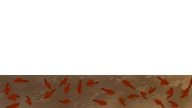
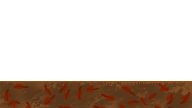
balance changes

Changed region(s): [[0.0, 0.6944, 1.0, 1.0]]

diff --git a/Assets/Scripts/playerController.cs b/Assets/Scripts/playerController.cs
@@ -33,11 +33,11 @@ public class playerController : MonoBehaviour
     //player life
     public float timesHit;
     public bool isDead;
-
+    public GameObject[] blood;
 
     public AudioSource[] aSource;
 
-    bool playSheathOnce;
+    bool playblood;
 
     public Animation anim;
 
@@ -76,7 +76,6 @@ public class playerController : MonoBehaviour
                     m_SpriteRenderer.sprite = sprites[3];
                     aniamtionTime = time + 0.3f; //block animation lasts for a small period
                     isBlocking = true;
-                    playSheathOnce = true;
                     cooldown = time + 0.7f;
                     aSource[5].Play();
                 }
@@ -88,7 +87,6 @@ public class playerController : MonoBehaviour
                         m_SpriteRenderer.sprite = sprites[1];
                         aniamtionTime = time + 0.3f;
                         isFaking = true;
-                        playSheathOnce = true;
                         timeSincePress = time; //last time the player pressed attack key
                         aSource[4].Play();
                     }
@@ -97,8 +95,8 @@ public class playerController : MonoBehaviour
                         aSource[1].Play();
                         Debug.Log("attack");
                         isAttacking = true;
+                        isBlocking = false; ;
                         isFaking = false;
-                        playSheathOnce = true;
                         m_SpriteRenderer.sprite = sprites[2];
                         aniamtionTime = time + 0.5f;
                         cooldown = time + 1f;
@@ -120,6 +118,7 @@ public class playerController : MonoBehaviour
                         cooldown = time + 0.7f; //time penalty for blocking them
                         aniamtionTime = time + 0.8f;
                         aSource[2].Play();
+                        OtherPlayer.GetComponent<playerController>().cooldown = 0f;
                     }
                     else
                     {
@@ -130,6 +129,14 @@ public class playerController : MonoBehaviour
                         OtherPlayer.GetComponent<playerController>().cooldown = cooldown;
                         OtherPlayer.GetComponent<playerController>().timesHit += 1;
                         OtherPlayer.GetComponent<playerController>().aniamtionTime = time + 0.9f;
+                        if (playerNumber == 1)
+                        {
+                            Instantiate(blood[0], new Vector3(OtherPlayer.transform.position.x + 0.4f, gameObject.transform.position.y, gameObject.transform.position.z), Quaternion.Euler(0, 180, 0));
+                        }
+                        else
+                        {
+                            Instantiate(blood[0], new Vector3(OtherPlayer.transform.position.x - 0.4f, gameObject.transform.position.y, gameObject.transform.position.z), Quaternion.identity);
+                        }
                         //sound effects
                         anim.Play("screenshake");
                         aSource[0].Play();
@@ -141,14 +148,9 @@ public class playerController : MonoBehaviour
                 }
             }
 
-            //if the other player is stunned all CD are reset to allow for counter attack
-            if (OtherPlayer.GetComponent<playerController>().isStunned)
-            {
-                cooldown = 0;
-            }
-
             if (isHit)
             {
+                isStunned = false;
                 m_SpriteRenderer.sprite = sprites[5];
             }
 
@@ -175,6 +177,20 @@ public class playerController : MonoBehaviour
         {
             if (isFinished)
             {
+                if (!playblood)
+                {   
+                    if(playerNumber == 1)
+                    {
+                        Instantiate(blood[1], new Vector3(gameObject.transform.position.x - 0.4f, gameObject.transform.position.y - 0.02f, gameObject.transform.position.z), Quaternion.identity);
+                    }
+                    else
+                    {
+                        Instantiate(blood[1], new Vector3(gameObject.transform.position.x + 0.4f, gameObject.transform.position.y - 0.02f, gameObject.transform.position.z), Quaternion.identity);
+                    }
+                    
+                    playblood = true;
+                }
+                
                 m_SpriteRenderer.sprite = sprites[7];
             }
         }
